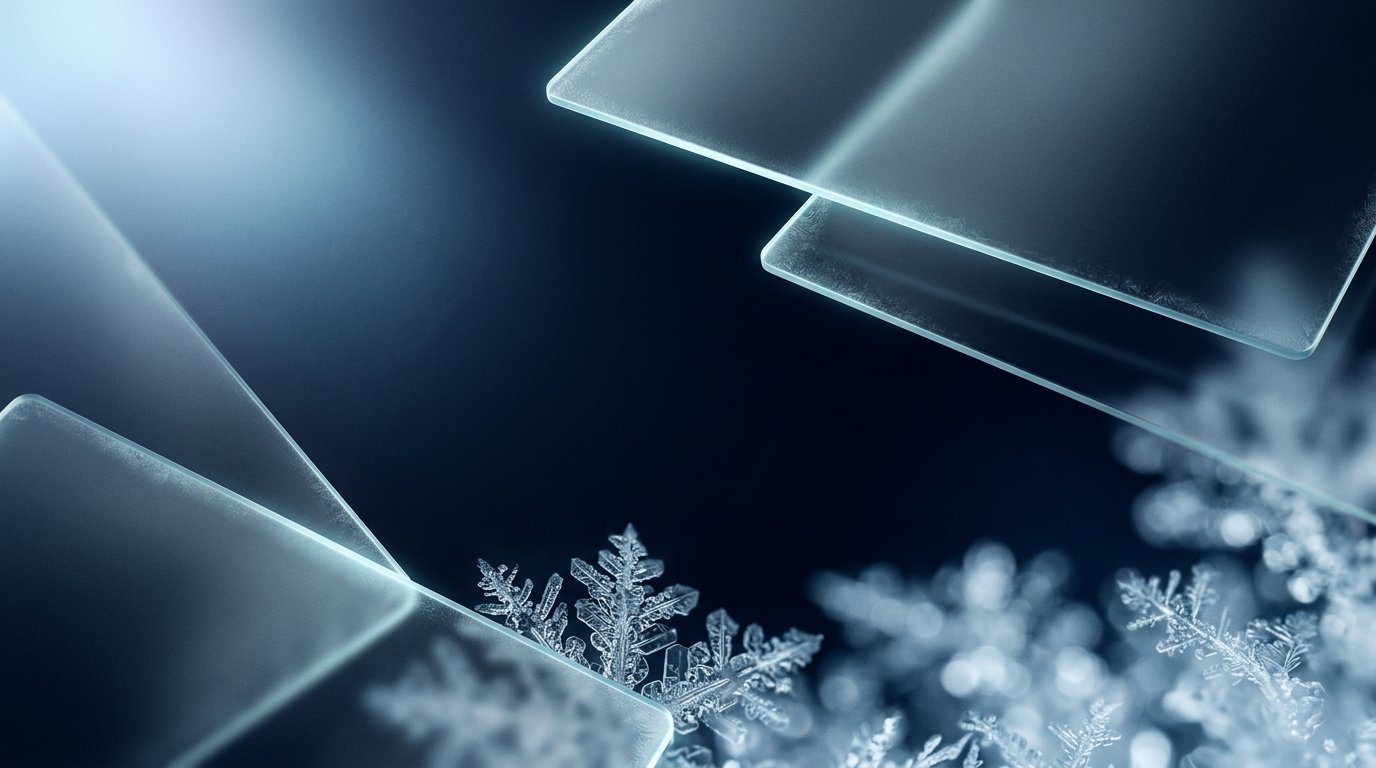
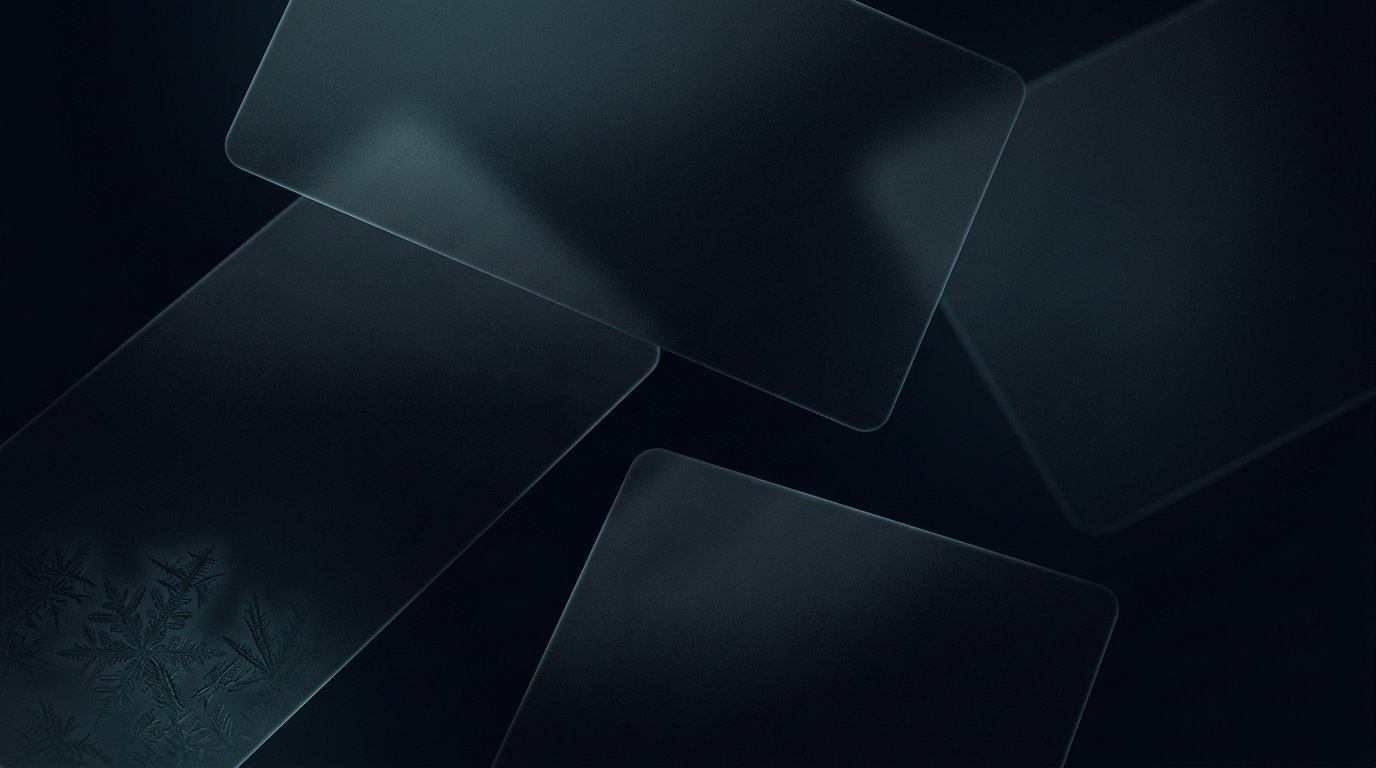
themes: the backdrops are shown as they are
No opacity, no scrim, no filter. What is in the file is what is on the
screen, on every theme, in both modes.

What went: a per-theme opacity that held the images between 34% and
70%, and a gradient of the page colour drawn over them, heaviest at the
bottom. Both existed to protect text contrast, and both did it by
spoiling the thing they were protecting it from.

Contrast is now the panels' job, which is where it belonged. Every
panel carries its own surface fill, so the number that matters is text
against its card - not text against the wallpaper.

That exposed a real problem the damping had been hiding. Four dark
backdrops were not dark: frost had a white bokeh field reaching 0.79
luminance, clay 0.57, mono 0.45, aurora 0.27. At full strength the
brightest of them left body text on a Glassmorphism card at 2.09:1 -
unreadable - because that theme's cards are 30% opaque by design.

The fix is the picture, not the rendering. Those four were regenerated
dark: frosted panes lit only along their edges, clay blobs as
silhouettes with a faint rim, concrete whose lightest point is still
charcoal, an aurora that is thin ribbons over a black sky. No theme's
own surface, blur or opacity knob was touched.

Measured across all twenty images, text on a panel over the brightest
pixel of each: worst case 8.23:1, most above 12:1. Frost went from
2.09:1 to 11.32:1 by changing nothing but the photograph.

One honest consequence: text with no panel under it - a bare caption
[…]

diff --git a/apps/web/css/themes.css b/apps/web/css/themes.css
@@ -1353,7 +1353,7 @@ html[data-bg="layered"] #bg-fx{
 html[data-perf="fast"] #bg-fx b,
 html[data-motion="off"] #bg-fx b,
 html[data-motion="soft"] #bg-fx b{ animation:none !important }
-html[data-motion="off"] #bg-fx{ opacity:.55 }
+html[data-motion="off"] #bg-fx b{ opacity:.55 }
 
 /* ===========================================================================
    6. Motion and micro-interaction
@@ -1885,8 +1885,8 @@ html[data-skin][data-theme="light"] .pay-veil{ background:rgb(var(--wash) / .34)
 
 /* A backdrop tuned for a dark page is too loud on a light one: the same
    blobs at the same opacity turn a white desk into a poster. */
-html[data-theme="light"] #bg-fx{ opacity:.55 }
-html[data-theme="light"][data-bg="grid"] #bg-fx{ opacity:.4 }
+html[data-theme="light"] #bg-fx b{ opacity:.55 }
+html[data-theme="light"][data-bg="grid"] #bg-fx b{ opacity:.4 }
 
 /* Cyber and Monochrome want their own scrollbar: one because everything
    else on the page is lit, the other because nothing is. */
@@ -2022,64 +2022,39 @@ html[data-perf="fast"] .tc-lock{ background:rgb(var(--s1) / .9) }
    that image *is* the product's identity, and replacing it would be changing
    the default look rather than extending it.
 
-   Three things make a photograph usable behind a trading desk rather than
-   merely pretty:
+   Two things, now that the damping is gone:
 
-     1. It is damped. The image never renders above 55% on a dark theme or
-        34% on a light one, and a scrim of the theme's own page colour is
-        drawn over it, heaviest at the bottom where the tables are.
-     2. It is layered *over* the animated blobs, not under them, so a theme
-        that has both reads as one backdrop instead of two competing ones.
-     3. It is static. No parallax, no ken-burns, nothing that repaints - the
-        only thing that ever changes is the opacity, once, during a theme
-        swap that is already hidden behind the veil.
+     1. The image is shown as it is. No opacity, no scrim, no filter - what
+        is in the file is what is on the screen. Everything the desk draws
+        on top carries its own surface, so the contrast that matters is
+        between text and its panel, not between text and the wallpaper.
+     2. It is static, and it is layered over the animated blobs so a theme
+        with both reads as one backdrop rather than two competing ones.
+        No parallax, no ken-burns, nothing that repaints.
 
    Adding the rest is one line each: drop the file in assets/bg and name it.
    =========================================================================== */
 
-#bg-fx::before,
-#bg-fx::after{
+#bg-fx::before{
   content:"";
   position:absolute;
   inset:0;
   pointer-events:none;
-}
-
-/* The photograph. */
-#bg-fx::before{
   z-index:1;
   background-image:var(--theme-bg, none);
   background-size:cover;
   background-position:center;
   background-repeat:no-repeat;
-  opacity:var(--theme-bg-op, .55);
-  transition:opacity var(--dur-4) var(--ease-1);
+  /* Full strength, with nothing drawn over it.
+     There used to be a scrim here and a per-theme opacity under it, both
+     sized by measuring text contrast against the brightest part of every
+     photograph. Both are gone on purpose: a backdrop shown at half
+     strength under a wash of the page colour is not the backdrop anybody
+     chose. Legibility now rests where it belongs - on the panels, which
+     carry their own surface fill - instead of on spoiling the picture
+     behind them. */
+  opacity:1;
 }
-
-/* The scrim that keeps text on top of it legible. Bottom-weighted, because
-   that is where the dense numbers live. */
-#bg-fx::after{
-  z-index:2;
-  background:linear-gradient(180deg,
-    rgb(var(--s1) / .30) 0%,
-    rgb(var(--s1) / .52) 45%,
-    rgb(var(--s1) / .80) 100%);
-  /* Off by default: Liquid Glass has no photograph to scrim, and a wash over
-     nothing would just flatten the orb it ships with. Each theme that names
-     an image switches it on below. */
-  opacity:0;
-  transition:opacity var(--dur-4) var(--ease-1);
-}
-html[data-skin="frost"] #bg-fx::after,
-html[data-skin="neu"] #bg-fx::after,
-html[data-skin="clay"] #bg-fx::after,
-html[data-skin="aurora"] #bg-fx::after,
-html[data-skin="cyber"] #bg-fx::after,
-html[data-skin="midnight"] #bg-fx::after,
-html[data-skin="ocean"] #bg-fx::after,
-html[data-skin="sunset"] #bg-fx::after,
-html[data-skin="minimal"] #bg-fx::after,
-html[data-skin="mono"] #bg-fx::after{ opacity:1 }
 
 /* ---- the images -------------------------------------------------------- */
 
@@ -2100,112 +2075,75 @@ html[data-skin="mono"] #bg-fx::after{ opacity:1 }
 
 html[data-skin="frost"]{
   --theme-bg:url("../assets/bg/frost-dark.jpg");
-  --theme-bg-op:.5;   /* frost bokeh is the brightest thing in the set */
 }
 html[data-skin="frost"][data-theme="light"]{
   --theme-bg:url("../assets/bg/frost-light.jpg");
-  --theme-bg-op:.7;
 }
 
 html[data-skin="neu"]{
   --theme-bg:url("../assets/bg/neu-dark.jpg");
-  --theme-bg-op:.5;
 }
 html[data-skin="neu"][data-theme="light"]{
   --theme-bg:url("../assets/bg/neu-light.jpg");
-  --theme-bg-op:.7;
 }
 
 html[data-skin="clay"]{
   --theme-bg:url("../assets/bg/clay-dark.jpg");
-  --theme-bg-op:.5;
 }
 html[data-skin="clay"][data-theme="light"]{
   --theme-bg:url("../assets/bg/clay-light.jpg");
-  --theme-bg-op:.68;
 }
 
 html[data-skin="aurora"]{
   --theme-bg:url("../assets/bg/aurora-dark.jpg");
-  --theme-bg-op:.66;
 }
 html[data-skin="aurora"][data-theme="light"]{
   --theme-bg:url("../assets/bg/aurora-light.jpg");
-  --theme-bg-op:.68;
 }
 
 html[data-skin="cyber"]{
   --theme-bg:url("../assets/bg/cyber-dark.jpg");
-  --theme-bg-op:.7;   /* the grid is the theme; it earns the most of its image */
 }
 html[data-skin="cyber"][data-theme="light"]{
   --theme-bg:url("../assets/bg/cyber-light.jpg");
-  --theme-bg-op:.64;
 }
 
 html[data-skin="midnight"]{
   --theme-bg:url("../assets/bg/midnight-dark.jpg");
-  --theme-bg-op:.7;
 }
 html[data-skin="midnight"][data-theme="light"]{
   --theme-bg:url("../assets/bg/midnight-light.jpg");
-  --theme-bg-op:.66;
 }
 
 html[data-skin="ocean"]{
   --theme-bg:url("../assets/bg/ocean-dark.jpg");
-  --theme-bg-op:.7;   /* saturated turquoise is the one light image dark enough to hurt */
 }
 html[data-skin="ocean"][data-theme="light"]{
   --theme-bg:url("../assets/bg/ocean-light.jpg");
-  --theme-bg-op:.34;
 }
 
 html[data-skin="sunset"]{
   --theme-bg:url("../assets/bg/sunset-dark.jpg");
-  --theme-bg-op:.7;
 }
 html[data-skin="sunset"][data-theme="light"]{
   --theme-bg:url("../assets/bg/sunset-light.jpg");
-  --theme-bg-op:.66;
 }
 
 html[data-skin="minimal"]{
   --theme-bg:url("../assets/bg/minimal-dark.jpg");
-  --theme-bg-op:.4;   /* capped well under what it could carry: restraint is the theme */
 }
 html[data-skin="minimal"][data-theme="light"]{
   --theme-bg:url("../assets/bg/minimal-light.jpg");
-  --theme-bg-op:.4;
 }
 
 html[data-skin="mono"]{
   --theme-bg:url("../assets/bg/mono-dark.jpg");
-  --theme-bg-op:.36;   /* capped for the same reason */
 }
 html[data-skin="mono"][data-theme="light"]{
   --theme-bg:url("../assets/bg/mono-light.jpg");
-  --theme-bg-op:.44;
 }
 
-/* ---- how much of it is allowed ----------------------------------------- */
+/* ---- the two cases where it still steps aside ------------------------- */
 
-/* The scrim is heavier on a light page, where the same image carries further. */
-html[data-theme="light"] #bg-fx::after{
-  background:linear-gradient(180deg,
-    rgb(var(--s1) / .42) 0%,
-    rgb(var(--s1) / .62) 45%,
-    rgb(var(--s1) / .86) 100%);
-}
-
-/* The cheap rendering tier keeps the picture - a static JPEG costs nothing
-   to hold - but loses the crossfade. */
-html[data-perf="fast"] #bg-fx::before{ transition:none }
-
-/* With the backdrop off, the photograph goes with it. */
-html[data-bg="none"] #bg-fx::before,
-html[data-bg="none"] #bg-fx::after{ opacity:0 }
-
-@media (prefers-reduced-motion:reduce){
-  #bg-fx::before{ transition:none }
-}
+/* The custom theme's "no backdrop" choice means no backdrop. */
+html[data-bg="none"] #bg-fx::before{ display:none }

diff --git a/apps/web/index.html b/apps/web/index.html
@@ -98,7 +98,7 @@
   <link rel="stylesheet" href="/css/app.css?v=desk109" />
   <link rel="stylesheet" href="/css/skins.css?v=desk93" />
   <link rel="stylesheet" href="/css/chart.css?v=desk104" />
-  <link rel="stylesheet" href="/css/themes.css?v=desk99" />
+  <link rel="stylesheet" href="/css/themes.css?v=desk110" />
 </head>
 <body class="mode-desk">
   <div class="aurora"></div>

diff --git a/apps/web/sw.js b/apps/web/sw.js
@@ -1,4 +1,4 @@
-const CACHE = "aurion-shell-v89";
+const CACHE = "aurion-shell-v90";
 
 self.addEventListener("install", (event) => {
   event.waitUntil(self.skipWaiting());
